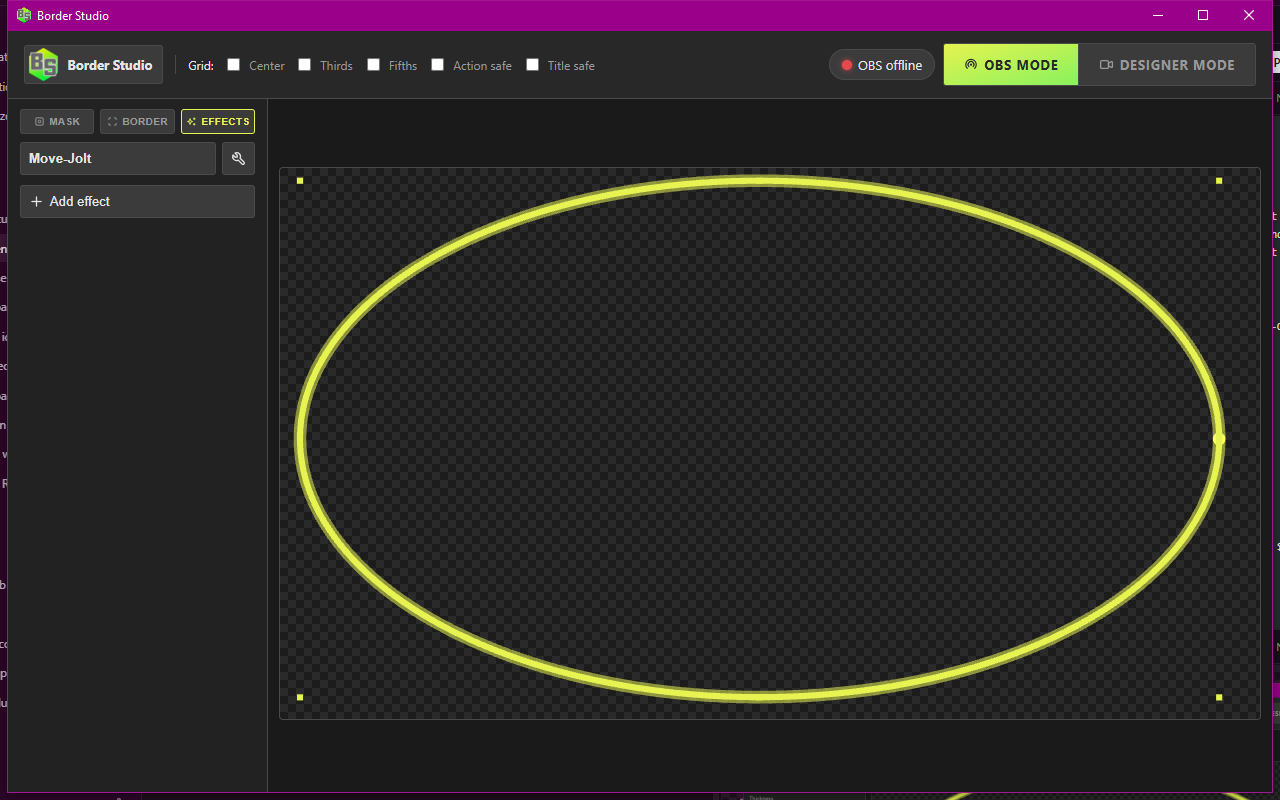
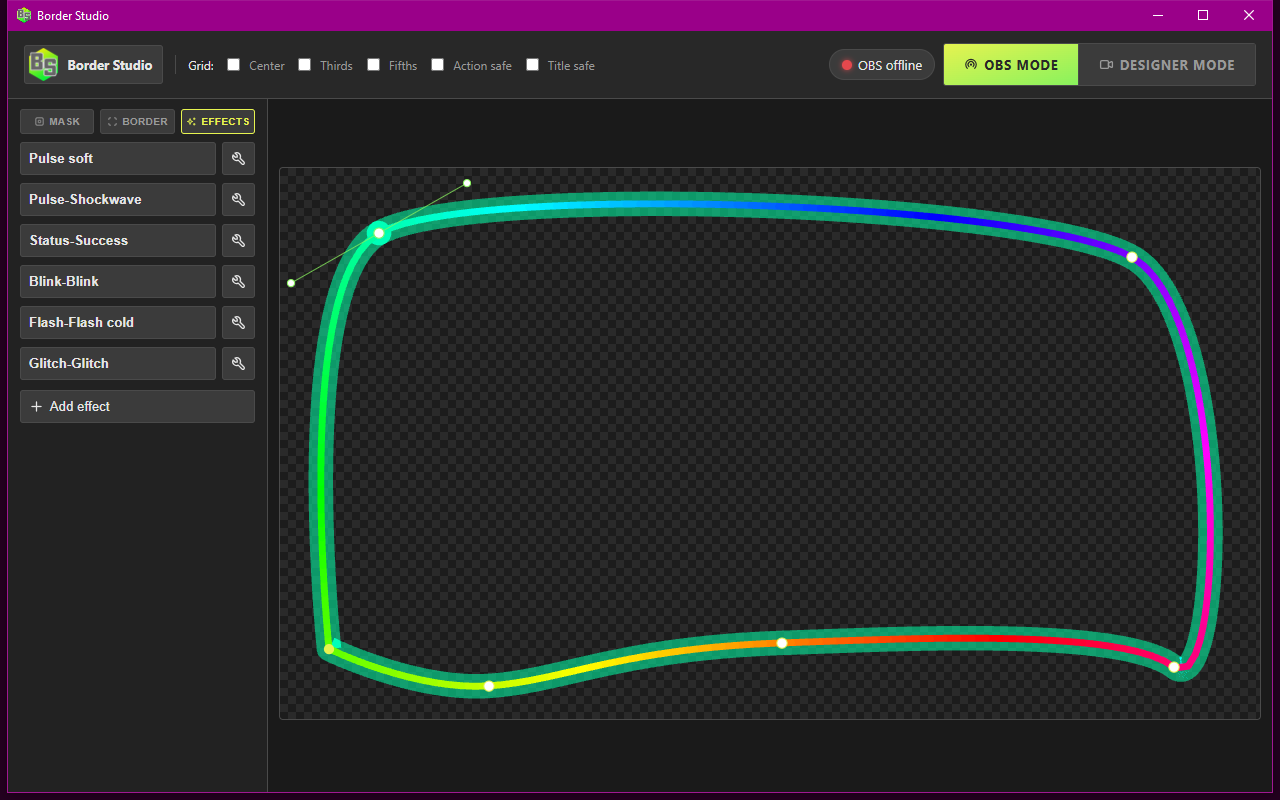
recapture docs screenshots
- replace five stale designer pngs from the live window
- add motion fold and aurora shots
- point designer docs at the new motion pngs

diff --git a/docs/md/designer.md b/docs/md/designer.md
@@ -66,7 +66,13 @@ If the local server dies, a banner says `Error: Border Studio application not ru
 
 ## Motion
 
-**Border → Motion** is the idle loop on the border. **None** is a solid stroke. Pick a loop, then **Duration (ms)** (100–10000), **Easing**, **Tint** (empty = use the stroke color), and **Strength** (0–3). **Save as preset** stores that setup under **Mine**. Motion reset returns to None.
+**Border → Motion** is the idle loop on the border. Fold **Stroke** to get the panel out of the way. **None** is a solid stroke. Pick a loop, then **Duration (ms)** (100–10000), **Easing**, **Tint** (empty = use the stroke color), and **Strength** (0–3). **Save as preset** stores that setup under **Mine**. Motion reset returns to None.
+
+![Designer Motion fold](../assets/screens/designer-motion.png)
+
+Aurora (Color group) walks a hue along the stroke:
+
+![Designer Motion Aurora](../assets/screens/designer-motion-aurora.png)
 
 Easing applies per keyframe segment, so **Steps** holds each key and dash loops wrap seamlessly. Labels: Ease, Ease in, Ease out, Ease in-out, Linear, Steps, Steps 2.
 
